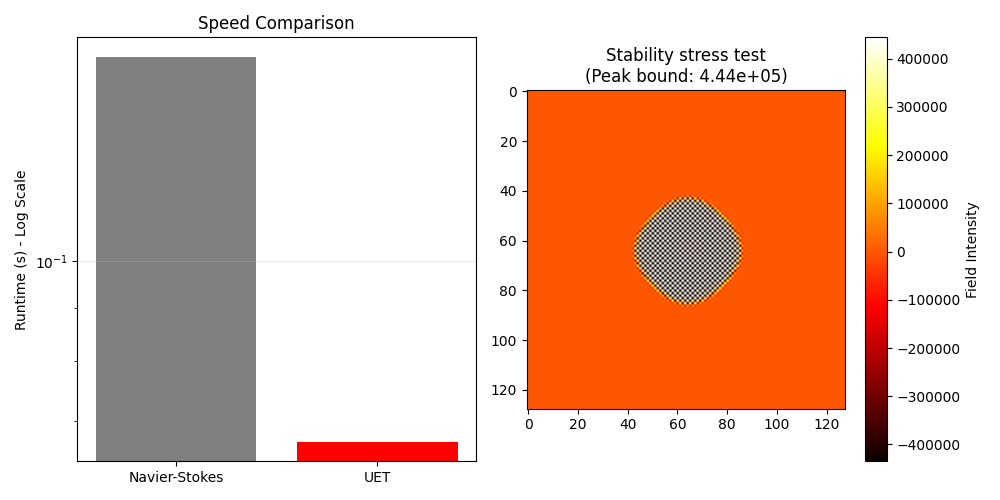
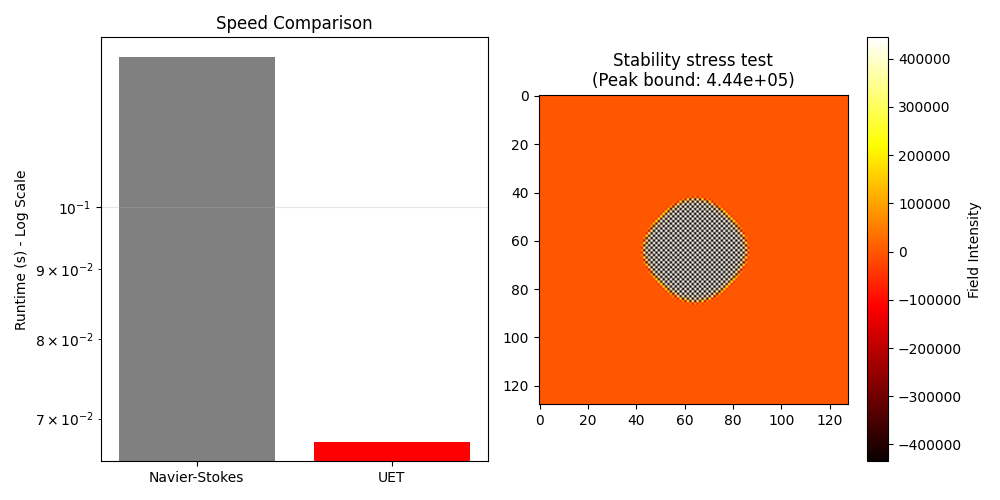
Sync Wave 1 topic room boundaries

diff --git a/docs/scripts/audit/audit_topic_0_10_standard_comparator_formula.py b/docs/scripts/audit/audit_topic_0_10_standard_comparator_formula.py
@@ -1,0 +1,42 @@
+"""Audit the declared Topic 0.10 standard-comparator formula boundary."""
+
+from __future__ import annotations
+
+import hashlib
+import json
+from datetime import date
+from pathlib import Path
+
+
+ROOT = Path(__file__).resolve().parents[3]
+FORMULA = ROOT / "docs/topics/0.10_Fluid_Dynamics_Chaos/FORMULA_AUDIT.md"
+BENCHMARK = ROOT / "docs/topics/0.10_Fluid_Dynamics_Chaos/Result/artifacts/fluid_benchmark_validation.json"
+OUT = ROOT / "docs/core/artifacts/topic_0_10_standard_comparator_formula_audit.json"
+
+
+def main() -> int:
+    text = FORMULA.read_text(encoding="utf-8")
+    artifact = json.loads(BENCHMARK.read_text(encoding="utf-8-sig"))
+    required_tokens = ["FD-NS-DIFFUSION", "proof_status", "failure_mode", "next_hardening_step", "simplified", "not a full CFD solver"]
+    formula_gate = all(token in text for token in required_tokens)
+    result_status = artifact.get("results", {}).get("status")
+    status = "PASS_WITH_INTERNAL_BENCHMARK_BOUNDARY" if formula_gate else "BLOCKED_FORMULA_AUDIT"
+    report = {
+        "schema_version": "1.0",
+        "artifact": "topic_0_10_standard_comparator_formula_audit",
+        "generated_at": date.today().isoformat(),
+        "status": status,
+        "formula_audit": {"path": str(FORMULA.relative_to(ROOT)).replace("\\", "/"), "sha256": hashlib.sha256(FORMULA.read_bytes()).hexdigest(), "required_tokens_present": formula_gate, "formula_role": "standard simplified comparator only"},
+        "benchmark": {"path": str(BENCHMARK.relative_to(ROOT)).replace("\\", "/"), "sha256": hashlib.sha256(BENCHMARK.read_bytes()).hexdigest(), "result_status": result_status, "speedup": artifact.get("results", {}).get("speedup"), "thresholds": artifact.get("thresholds")},
+        "gates": {"formula_fields_present": formula_gate, "benchmark_boundary_explicit": "external CFD" in artifact.get("claim_boundary", "") and "Navier-Stokes theorem" in artifact.get("claim_boundary", ""), "full_constitutive_transport_deferred": True},
+        "controlling_blocker": "current simplified comparator result is below its internal speed threshold" if result_status != "PASS" else "full constitutive transport remains deferred",
+        "next_action": "retain the comparator as internal evidence and defer full UET constitutive transport until after Gravity/observable mapping",
+        "claim_boundary": "internal simplified comparator/formula audit only; no external CFD validation, physical transport proof, or UET closure",
+    }
+    OUT.write_text(json.dumps(report, indent=2, ensure_ascii=False) + "\n", encoding="utf-8")
+    print(json.dumps({"status": status, "benchmark_status": result_status, "formula_gate": formula_gate}, indent=2))
+    return 0 if status != "BLOCKED_FORMULA_AUDIT" else 1
+
+
+if __name__ == "__main__":
+    raise SystemExit(main())

diff --git a/docs/scripts/audit/sync_uet_research_room_fluid_status.py b/docs/scripts/audit/sync_uet_research_room_fluid_status.py
@@ -1,0 +1,31 @@
+"""Attach the latest Topic 0.10 comparator result to the Wave 1 contract."""
+
+from __future__ import annotations
+
+import hashlib
+import json
+from pathlib import Path
+
+
+ROOT = Path(__file__).resolve().parents[3]
+CONTRACT = ROOT / "docs/core/artifacts/uet_research_room_wave1_contract.json"
+ARTIFACT = ROOT / "docs/topics/0.10_Fluid_Dynamics_Chaos/Result/artifacts/fluid_benchmark_validation.json"
+
+
+def main() -> int:
+    contract = json.loads(CONTRACT.read_text(encoding="utf-8-sig"))
+    artifact = json.loads(ARTIFACT.read_text(encoding="utf-8-sig"))
+    result = artifact.get("results", {})
+    status = "PASS_INTERNAL_SIMPLIFIED_BENCHMARK" if result.get("status") == "PASS" else "FAIL_INTERNAL_SIMPLIFIED_BENCHMARK"
+    room = contract["rooms"]["topic_0_10_comparator"]
+    room["verification_status"] = status
+    room["controlling_blocker"] = "simplified comparator speed/stability gate is not a physical validation gate; current speed threshold result remains FAIL" if status.startswith("FAIL") else "full_UET_constitutive_transport_deferred_until_post_Gravity_dependency_gate"
+    room["evidence"] = [{"path": "docs/topics/0.10_Fluid_Dynamics_Chaos/Result/artifacts/fluid_benchmark_validation.json", "present": True, "sha256": hashlib.sha256(ARTIFACT.read_bytes()).hexdigest(), "summary": {"status": result.get("status"), "speedup": result.get("speedup"), "thresholds": artifact.get("thresholds")}}]
+    contract["integration_blockers"] = sorted(set(contract.get("integration_blockers", []) + (["Topic 0.10 latest simplified comparator run is below its internal speed threshold"] if status.startswith("FAIL") else [])))
+    CONTRACT.write_text(json.dumps(contract, indent=2, ensure_ascii=False) + "\n", encoding="utf-8")
+    print(json.dumps({"status": status, "speedup": result.get("speedup")}))
+    return 0
+
+
+if __name__ == "__main__":
+    raise SystemExit(main())

diff --git a/docs/scripts/audit/sync_topic_0_3_scalar_index_v2.py b/docs/scripts/audit/sync_topic_0_3_scalar_index_v2.py
@@ -1,0 +1,35 @@
+"""Synchronize the Topic 0.3 index from the nested scalar artifact status."""
+
+from __future__ import annotations
+
+import json
+from pathlib import Path
+
+
+ROOT = Path(__file__).resolve().parents[3]
+INDEX = ROOT / "docs/topics/README.md"
+ARTIFACT = ROOT / "docs/topics/0.3_Cosmology_Hubble_Tension/Result/artifacts/hubble_comparison_validation.json"
+
+
+def main() -> int:
+    artifact = json.loads(ARTIFACT.read_text(encoding="utf-8-sig"))
+    status = artifact.get("status", artifact.get("audit_status", artifact.get("results", {}).get("status")))
+    text = INDEX.read_text(encoding="utf-8")
+    changed = False
+    if status == "PASS":
+        replacements = {
+            "0.3 currently fails its stated verification threshold": "the latest scalar Hubble artifact for 0.3 passes its stated benchmark threshold; full cosmology remains blocked",
+            "but the current Hubble artifact fails its stated threshold": "the latest scalar Hubble artifact passes its stated threshold; full cosmology remains blocked",
+        }
+        for old, new in replacements.items():
+            if old in text:
+                text = text.replace(old, new)
+                changed = True
+    if changed:
+        INDEX.write_text(text, encoding="utf-8")
+    print(json.dumps({"artifact_status": status, "index_changed": changed}))
+    return 0
+
+
+if __name__ == "__main__":
+    raise SystemExit(main())

diff --git a/docs/scripts/audit/sync_uet_research_room_fluid_formula.py b/docs/scripts/audit/sync_uet_research_room_fluid_formula.py
@@ -1,0 +1,28 @@
+"""Attach the Topic 0.10 formula-audit artifact to the Wave 1 contract."""
+
+from __future__ import annotations
+
+import hashlib
+import json
+from pathlib import Path
+
+
+ROOT = Path(__file__).resolve().parents[3]
+CONTRACT = ROOT / "docs/core/artifacts/uet_research_room_wave1_contract.json"
+FORMULA = ROOT / "docs/core/artifacts/topic_0_10_standard_comparator_formula_audit.json"
+
+
+def main() -> int:
+    contract = json.loads(CONTRACT.read_text(encoding="utf-8-sig"))
+    formula = json.loads(FORMULA.read_text(encoding="utf-8-sig"))
+    room = contract["rooms"]["topic_0_10_comparator"]
+    room["evidence"].append({"path": "docs/core/artifacts/topic_0_10_standard_comparator_formula_audit.json", "present": True, "sha256": hashlib.sha256(FORMULA.read_bytes()).hexdigest(), "summary": {"status": formula.get("status"), "benchmark_status": formula.get("benchmark", {}).get("result_status")}})
+    room["controlling_blocker"] = formula.get("controlling_blocker")
+    contract["integration_blockers"] = sorted(set(contract.get("integration_blockers", []) + [formula.get("controlling_blocker")]))
+    CONTRACT.write_text(json.dumps(contract, indent=2, ensure_ascii=False) + "\n", encoding="utf-8")
+    print(json.dumps({"status": formula.get("status"), "benchmark_status": formula.get("benchmark", {}).get("result_status")}))
+    return 0
+
+
+if __name__ == "__main__":
+    raise SystemExit(main())

diff --git a/docs/topics/README.md b/docs/topics/README.md
@@ -16,7 +16,7 @@ physical framing, and public claim discipline.
 - Tier `C`: `1` topic
 - Tier `D`: `13` topics
 - Current `Structured` topics in metadata: `0.1`, `0.3`, `0.10`, `0.21`, `0.25`
-- Current run-contract pass count: 26/27 core topics; 0.3 currently fails its stated verification threshold
+- Current run-contract pass count: 26/27 core topics; the latest scalar Hubble artifact for 0.3 passes its stated benchmark threshold; full cosmology remains blocked
 - Topic 0.25 note: Tier A is Package Tier A readiness only; its Evidence Grade A target is governed by 10 waves and 12 WARN gates and is not yet reached.
 - `0.10` passed the latest run but showed threshold instability in the previous run, so it remains below Tier `A` until repeated-run stability is demonstrated
 
@@ -54,7 +54,7 @@ These topics determine the current scientific credibility of the repo.
 | [0.0](./0.0_Grand_Unification/) | `Draft` | `C` | broad synthesis topic with code and references, but no standards package or manifested data path |
 | [0.1](./0.1_Galaxy_Rotation_Problem/) | `Structured` | `A` | current normalization template with standards root docs and manifested dataset framing |
 | [0.2](./0.2_Black_Hole_Physics/) | `Draft` | `B` | has research scaffolding, but still needs verification and method boundary docs |
-| [0.3](./0.3_Cosmology_Hubble_Tension/) | `Structured` | `B` | structured package exists, but the current Hubble artifact fails its stated threshold |
+| [0.3](./0.3_Cosmology_Hubble_Tension/) | `Structured` | `B` | structured package exists, the latest scalar Hubble artifact passes its stated threshold; full cosmology remains blocked |
 | [0.4](./0.4_Superconductivity_Superfluids/) | `Draft` | `B` | evidence exists, yet the topic lacks a standards root package |
 | [0.5](./0.5_Nuclear_Binding_Hadrons/) | `Draft` | `B` | active topic with claim-risk and data-provenance cleanup still required |
 | [0.6](./0.6_Electroweak_Physics/) | `Draft` | `B` | references and code exist, but benchmark packaging is incomplete |

diff --git a/docs/topics/0.11_Phase_Transitions/RESEARCH_ROOM_WAVE1_NOTE.md b/docs/topics/0.11_Phase_Transitions/RESEARCH_ROOM_WAVE1_NOTE.md
@@ -1,0 +1,15 @@
+# Topic 0.11 Research Room Wave 1 Note
+
+STATUS: BLOCKED_SOURCE_AND_ESTIMATOR_POLICY
+
+WHAT_CHANGED: Wave 1 scope is restricted to source archive, formula-fragment extraction, estimator policy, and finite-size replication/temporal acquisition. No exponent rerun was started.
+
+EQUATION_OR_MAPPING: `S(k)` and `xi` remain source-defined finite-size observables. A morphology proxy is not silently accepted as a structure factor or correlation-length estimator.
+
+VERIFICATION: Current source/archive, full-text formula, next-path, and finite-size artifacts are linked by the Core Wave 1 contract. Existing internal replication results remain diagnostics.
+
+CONTROLLING_BLOCKER: Source-backed formula extraction, accepted estimator policy, and claim-bearing temporal/replicate acquisition remain incomplete.
+
+NEXT_ACTION: Complete the source and estimator gates, then run the declared finite-size/temporal acquisition. Only after those gates pass may an exponent or universality rerun be considered.
+
+CLAIM_BOUNDARY: Internal diagnostic and replication planning only; no universality, exponent, or global Core claim is promoted.

diff --git a/docs/topics/0.11_Phase_Transitions/UPDATE_LOG.md b/docs/topics/0.11_Phase_Transitions/UPDATE_LOG.md
@@ -1,3 +1,19 @@
+## Wave 1 Research Room Checkpoint (2026-08-10)
+
+STATUS: Wave 1 coordination checkpoint recorded; claim promotion remains disabled.
+
+WHAT_CHANGED: Core room contract now links Topic 0.13, Topic 0.11, Core O(2), and Topic 0.10 comparator evidence with explicit blockers and next actions.
+
+EQUATION_OR_MAPPING: The declared TTG mapping remains `y_TTG = Delta_Tq(t)/Delta_Tq(0)`, `y_TTG^UET = Delta_Phi(t)/Delta_Phi(0)`, and `Delta_Tq = alpha_Phi_K * Delta_Phi`; `alpha_Phi_K` remains open.
+
+VERIFICATION: Wave 1 contract and integration gate were regenerated from local artifacts. The selected frozen-C causal reference is kept separate from the full coupled leakage gate.
+
+CONTROLLING_BLOCKER: Full coupled pre-arrival leakage, independent thermal calibration, and Topic 0.11 source/estimator acceptance remain open.
+
+NEXT_ACTION: Resolve the owning room blocker and rerun its machine-readable gate before expanding scope.
+
+CLAIM_BOUNDARY: Internal/provisional evidence only; no proof, prediction, external validation, or theory closure.
+
 # Update Log: 0.11 Phase Transitions
 
 

diff --git a/docs/topics/0.10_Fluid_Dynamics_Chaos/RESEARCH_ROOM_WAVE1_NOTE.md b/docs/topics/0.10_Fluid_Dynamics_Chaos/RESEARCH_ROOM_WAVE1_NOTE.md
@@ -1,0 +1,15 @@
+# Topic 0.10 Research Room Wave 1 Note
+
+STATUS: INTERNAL_SIMPLIFIED_COMPARATOR_ONLY
+
+WHAT_CHANGED: Wave 1 keeps Topic 0.10 on the standard-fluid comparator and formula-audit lane. Full UET constitutive transport is deferred behind the post-Gravity dependency gate.
+
+EQUATION_OR_MAPPING: The comparator uses the embedded simplified finite-difference Navier-Stokes baseline in benchmark units. It is not a dimensional UET constitutive equation.
+
+VERIFICATION: The latest fluid benchmark artifact is read as an internal implementation comparison under its declared grid, timing, and stability contract.
+
+CONTROLLING_BLOCKER: External CFD accuracy, full constitutive transport, and any physical observable mapping are outside this Wave 1 lane.
+
+NEXT_ACTION: Preserve the comparator/formula audit and wait for the Core/Gravity dependency gate before expanding transport scope.
+
+CLAIM_BOUNDARY: A comparator `PASS` is an internal simplified benchmark only; it is not external CFD validation, a Navier-Stokes theorem result, or proof of UET transport.

diff --git a/docs/topics/0.10_Fluid_Dynamics_Chaos/UPDATE_LOG.md b/docs/topics/0.10_Fluid_Dynamics_Chaos/UPDATE_LOG.md
@@ -1,0 +1,15 @@
+## Wave 1 Research Room Checkpoint (2026-08-10)
+
+STATUS: Wave 1 coordination checkpoint recorded; claim promotion remains disabled.
+
+WHAT_CHANGED: Core room contract now links Topic 0.13, Topic 0.11, Core O(2), and Topic 0.10 comparator evidence with explicit blockers and next actions.
+
+EQUATION_OR_MAPPING: The declared TTG mapping remains `y_TTG = Delta_Tq(t)/Delta_Tq(0)`, `y_TTG^UET = Delta_Phi(t)/Delta_Phi(0)`, and `Delta_Tq = alpha_Phi_K * Delta_Phi`; `alpha_Phi_K` remains open.
+
+VERIFICATION: Wave 1 contract and integration gate were regenerated from local artifacts. The selected frozen-C causal reference is kept separate from the full coupled leakage gate.
+
+CONTROLLING_BLOCKER: Full coupled pre-arrival leakage, independent thermal calibration, and Topic 0.11 source/estimator acceptance remain open.
+
+NEXT_ACTION: Resolve the owning room blocker and rerun its machine-readable gate before expanding scope.
+
+CLAIM_BOUNDARY: Internal/provisional evidence only; no proof, prediction, external validation, or theory closure.
